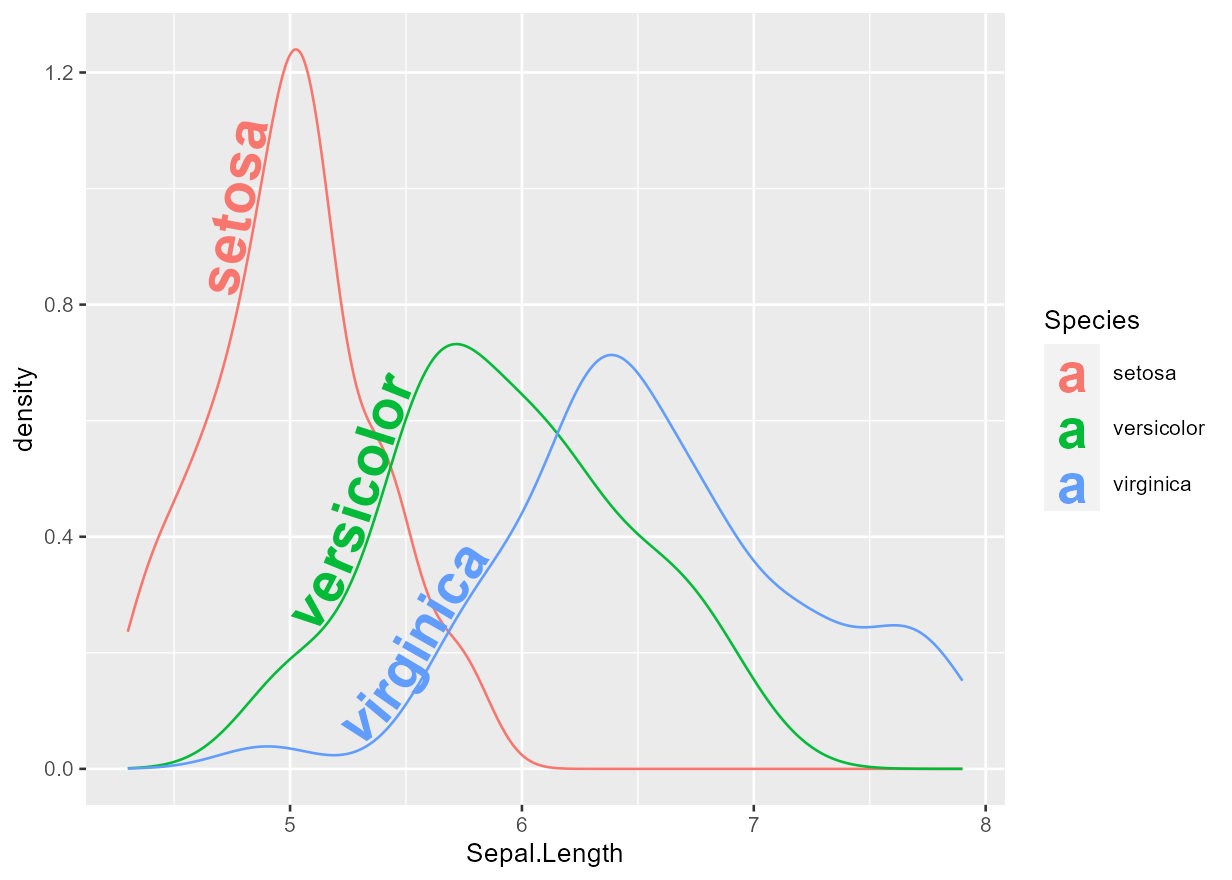
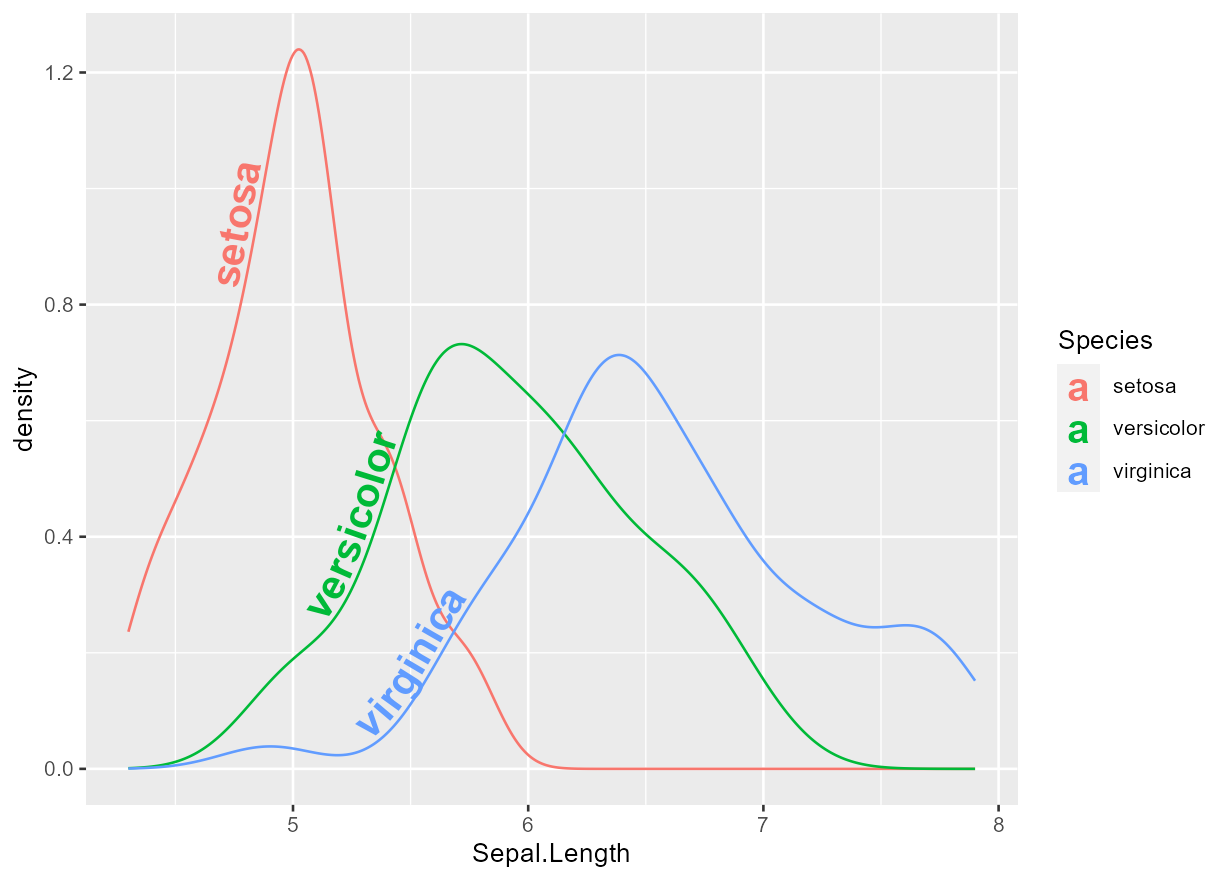
Improved examples. Added example to show the preserved angles with different aspect ratios (via faceting)

diff --git a/README.md b/README.md
@@ -67,7 +67,7 @@ By default, the paths are broken to allow the names in-line.
 ``` r
 ggplot(iris, aes(x = Sepal.Length, colour = Species)) +
   geom_textpath(aes(label = Species), stat = "density",
-                size = 8, fontface = 2, hjust = 0.2)
+                size = 6, fontface = 2, hjust = 0.2, vjust = 0.3)
 ```
 
 <img src="man/figures/README-density_demo-1.png" width="100%" style="display: block; margin: auto;" />
@@ -78,10 +78,38 @@ line is automatically filled in.
 ``` r
 ggplot(iris, aes(x = Sepal.Length, colour = Species)) +
   geom_textpath(aes(label = Species), stat = "density",
-                size = 8, fontface = 2, hjust = 0.2, vjust = -0.1)
+                size = 6, fontface = 2, hjust = 0.2, vjust = -0.2)
 ```
 
 <img src="man/figures/README-density_vjust-1.png" width="100%" style="display: block; margin: auto;" />
+
+### Correction of angles across different aspect ratios
+
+The angle of the text continues to follow the path even if the aspect
+ratio of the plot changes, for example, during faceting. Compare
+faceting horizontally:
+
+``` r
+p <- ggplot(iris, aes(x = Sepal.Length, colour = Species)) +
+       geom_textpath(aes(label = Species), stat = "density",
+                     size = 6, fontface = 2, hjust = 0.1, vjust = -0.2) +
+       scale_y_continuous(limits = c(0, 1.5))
+
+p + facet_grid(.~Species)
+```
+
+<img src="man/figures/README-horizontal_facets-1.png" width="100%" style="display: block; margin: auto;" />
+
+to faceting vertically:
+
+``` r
+p + facet_grid(Species~.)
+```
+
+<img src="man/figures/README-vertical_facets-1.png" width="100%" style="display: block; margin: auto;" />
+
+The text will continue to rotate appropriately as the plotting window is
+rescaled.
 
 ### Labelling groups of point along their trend line
 
@@ -90,7 +118,7 @@ ggplot(iris, aes(x = Sepal.Length, y = Petal.Length)) +
   geom_point(alpha = 0.1) +
   geom_textpath(aes(label = Species, colour = Species),
                 stat = "smooth", method = "loess", formula = y ~ x,
-                size = 8, linetype = 3, fontface = 2, linewidth = 3) +
+                size = 7, linetype = 3, fontface = 2, linewidth = 1) +
   scale_colour_manual(values = c("forestgreen", "deepskyblue4", "tomato4")) +
   theme_bw()
 ```
